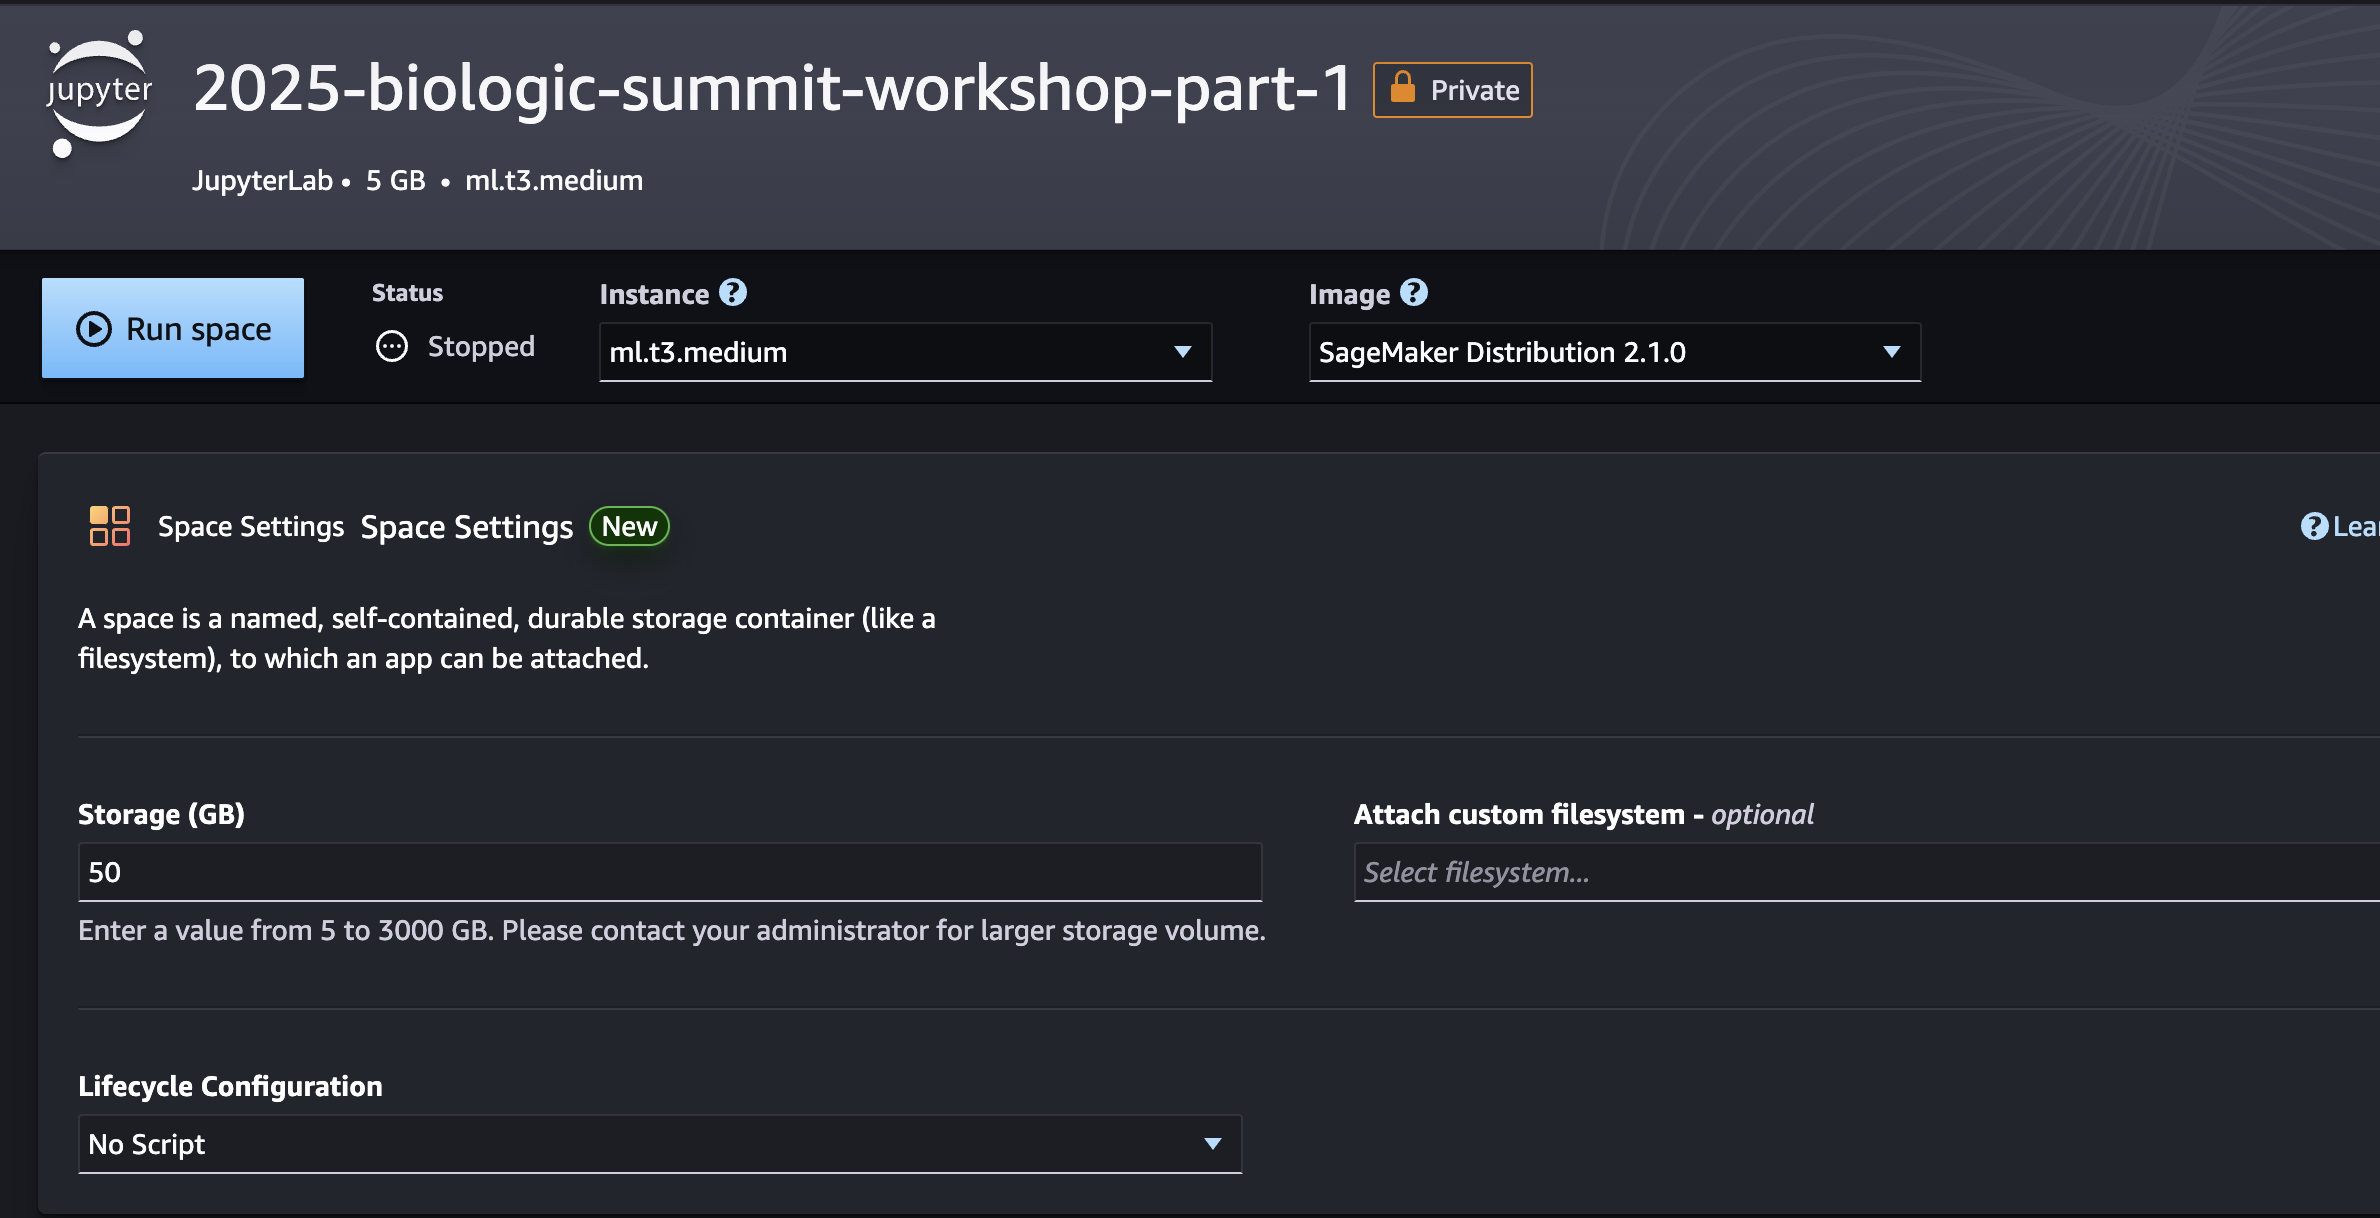
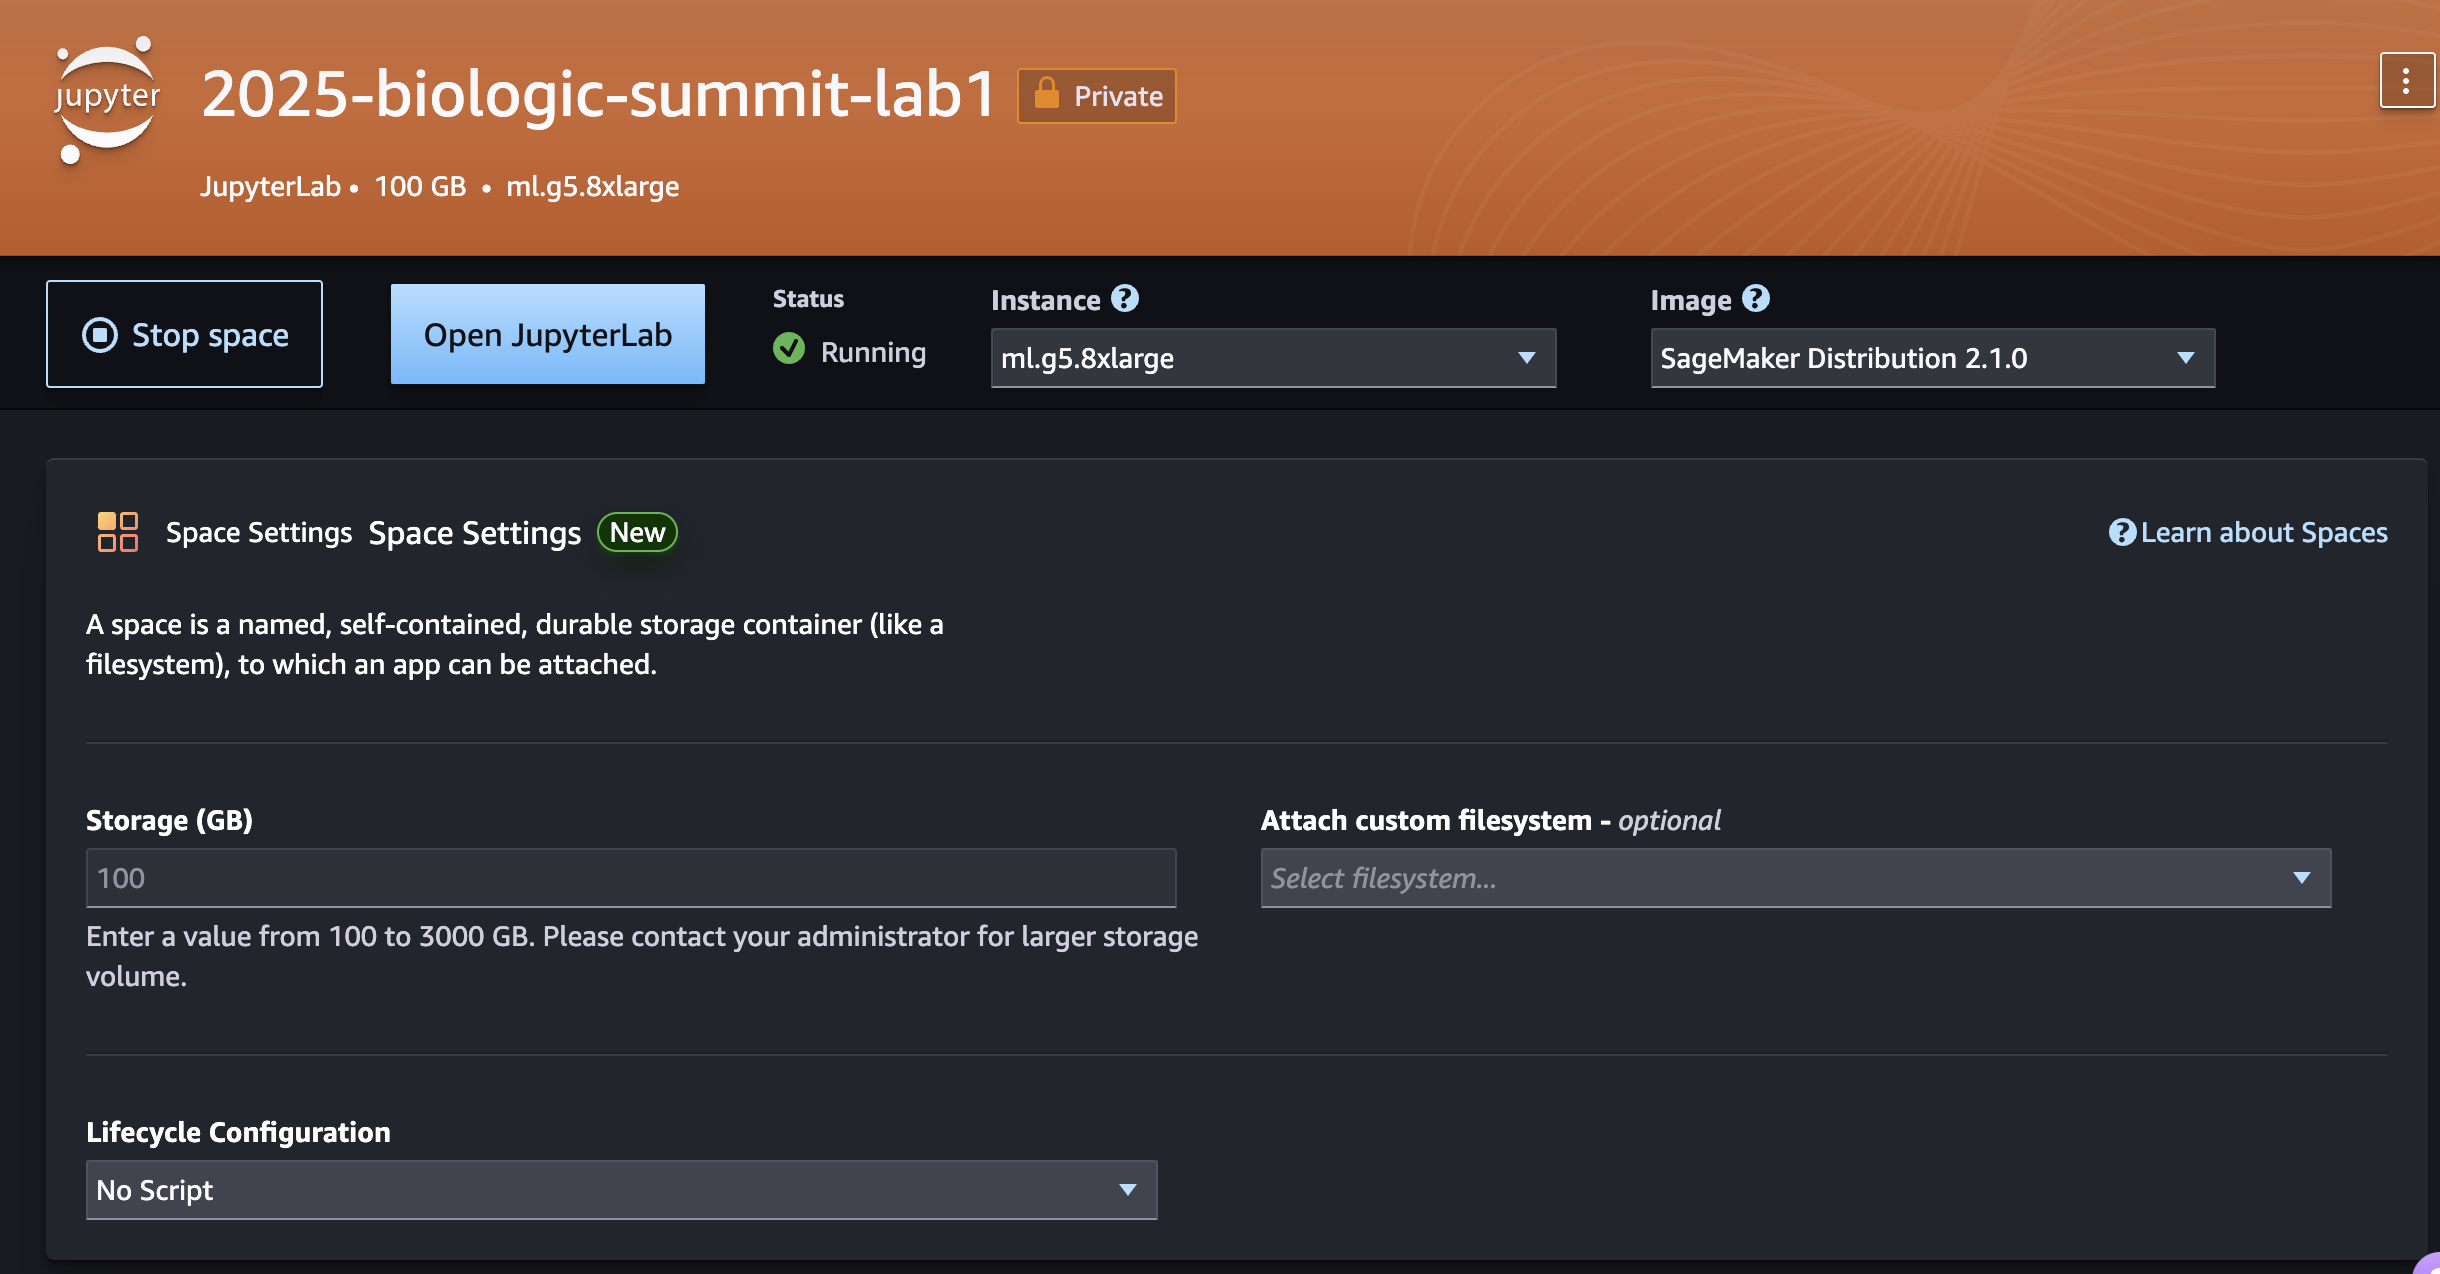
updates ;

diff --git a/notebooks/Lab-1.0-setup-up-credentials.md b/notebooks/Lab-1.0-setup-up-credentials.md
@@ -30,10 +30,10 @@ Similar step as above, but choose **Generate Personal Key** instead
 
 ## 2. Setting up environment for Lab 1.x
 
-> For notebooks Lab 1.x, we will be using NIMs hosted by NVIDIA, with some locally installed models & packages. You can run it on your laptop (MacOs and Linux tested) even without GPU support. 
+> For notebooks Lab 1.x, we will be using NIMs hosted by NVIDIA, with some locally installed models & packages. Linux environment with GPU is strongly recommended because 1) `abnumber` installation on Apple Silicon MacOS is a bit complicated and 2) Boltz benefits from GPU acceleration.  
 
 1. In SageMaker Studio, create a new Jupyterlab space. The following configuration 
-    ![sagemaker-studio-1](../images/sagemaker-studio-1.png)
+   ![sagemaker-studio-1](../images/sagemaker-studio-1.png)
 2. Once you're inside the JupyterLab, clone the repository and cd into the directory
     ```bash
     git clone https://github.com/xinyu-dev/2025-01-biologic-summit-workshop.git
